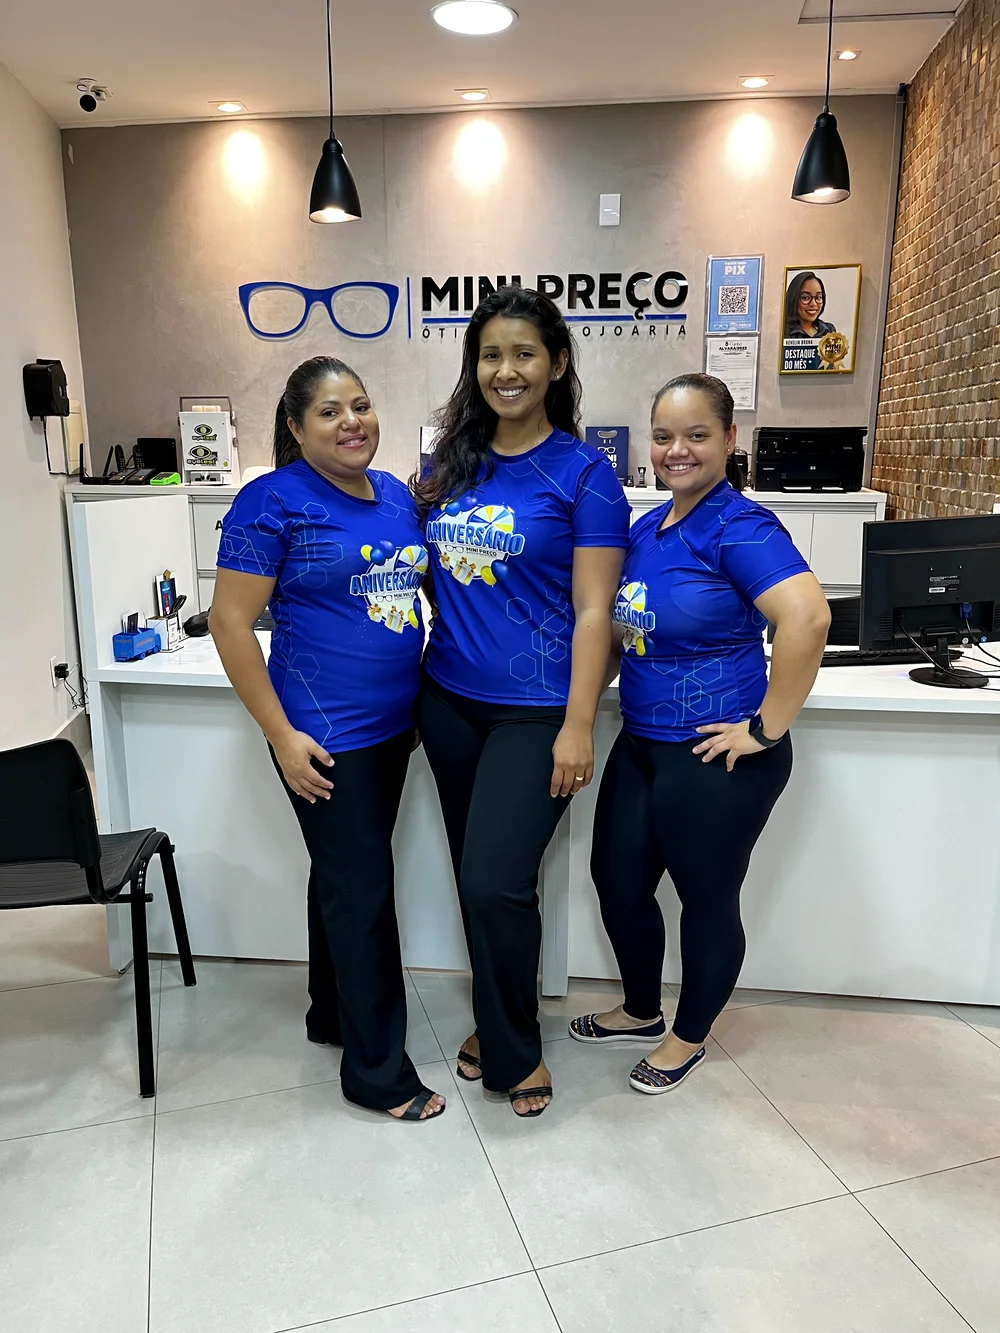
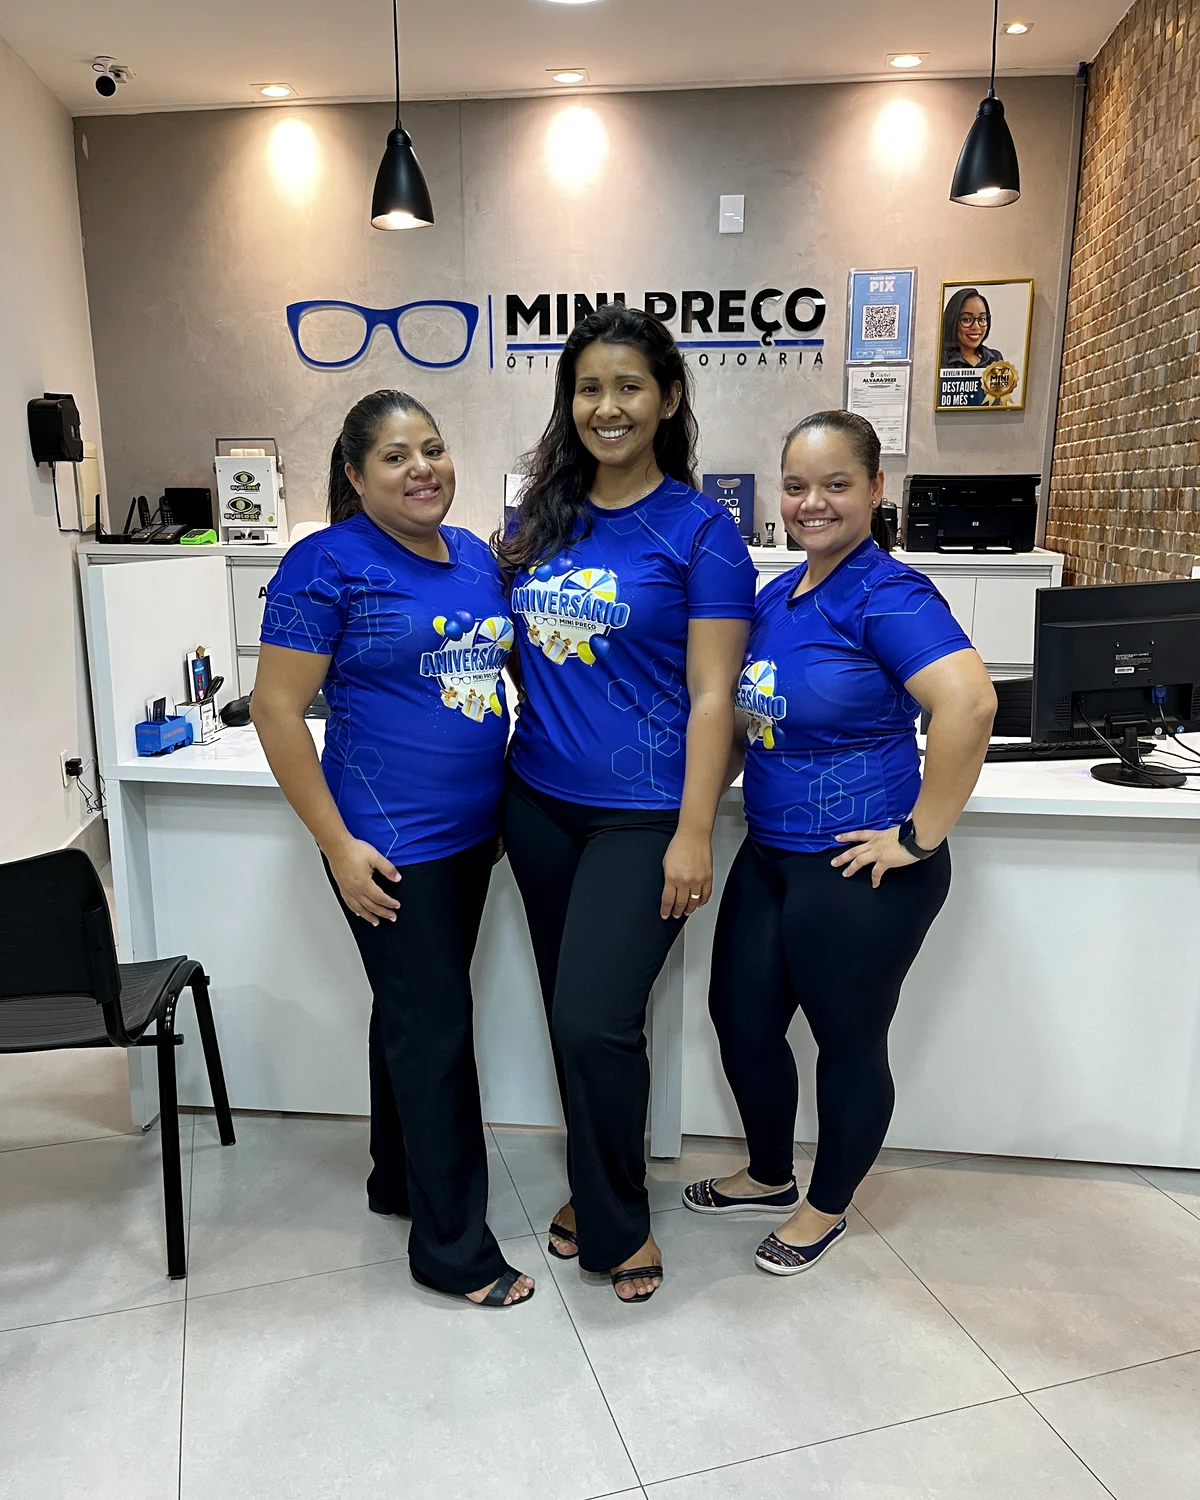
mini preco: enquadramentos corrigidos, sem rostos cortados

diff --git a/index.html b/index.html
@@ -80,17 +80,17 @@ footer{margin-top:120px;border-top:1px solid var(--ln);padding:60px 0 130px;text
 <div class="stack rv d1"><div class="arch"><img id="par" src="img/hero.webp" alt="Fachada da Ótica Mini Preço"></div><div class="mini"><img src="img/equipe.webp" alt="Equipe da Ótica Mini Preço"></div><div class="tag"><b>Pague em até 36x</b>Condições facilitadas para você sair de óculos novo.</div></div>
 </div></header>
 <div class="mq" aria-hidden="true"><div><span>Óculos de grau</span><span>Óculos de sol</span><span>Exame de vista</span><span>Garantia</span><span>Relojoaria</span><span>Receituário</span><span>Pague em até 36x</span><span>Manutenção programada</span><span>Óculos de grau</span><span>Óculos de sol</span><span>Exame de vista</span><span>Garantia</span><span>Relojoaria</span><span>Receituário</span><span>Pague em até 36x</span><span>Manutenção programada</span></div></div>
-<section id="servicos"><div class="wrap"><div class="sh rv"><div class="kick">O que você encontra</div><h2>Tudo para <em>enxergar</em> bem</h2><p>Qualidade, preço justo e um atendimento que os clientes elogiam.</p></div><div class="svc"><article class="sv rv d0"><div class="si"><img src="img/fachada-wide.webp" alt="Fachada da Mini Preço" loading="lazy"></div><div class="sb"><div class="n">01</div><h3>Óculos de grau e de sol</h3><p>Armações e lentes para a sua receita, com ótimo custo-benefício e pagamento em até 36x.</p><a data-tel href="#" target="_blank" rel="noopener">Pedir orçamento →</a></div></article><article class="sv rv d1"><div class="si"><img src="img/parede1.webp" alt="Recepção da Mini Preço com o logotipo na parede" loading="lazy"></div><div class="sb"><div class="n">02</div><h3>Exame de vista</h3><p>Agende com médico oftalmologista. Cuidamos da assessoria e indicamos uma clínica perto de você.</p><a data-tel href="#" target="_blank" rel="noopener">Agendar exame →</a></div></article><article class="sv rv d2"><div class="si"><img src="img/parede2.webp" alt="Interior da Mini Preço" loading="lazy"></div><div class="sb"><div class="n">03</div><h3>Garantia e manutenção</h3><p>Garantia nos óculos e manutenções programadas, que os clientes adoram.</p><a data-tel href="#" target="_blank" rel="noopener">Saber mais →</a></div></article></div></div></section>
+<section id="servicos"><div class="wrap"><div class="sh rv"><div class="kick">O que você encontra</div><h2>Tudo para <em>enxergar</em> bem</h2><p>Qualidade, preço justo e um atendimento que os clientes elogiam.</p></div><div class="svc"><article class="sv rv d0"><div class="si"><img src="img/placa.webp" alt="Placa da Mini Preço Ótica e Relojoaria" loading="lazy"></div><div class="sb"><div class="n">01</div><h3>Óculos de grau e de sol</h3><p>Armações e lentes para a sua receita, com ótimo custo-benefício e pagamento em até 36x.</p><a data-tel href="#" target="_blank" rel="noopener">Pedir orçamento →</a></div></article><article class="sv rv d1"><div class="si"><img src="img/equipe-wide.webp" alt="Equipe da Mini Preço na recepção" loading="lazy"></div><div class="sb"><div class="n">02</div><h3>Exame de vista</h3><p>Agende com médico oftalmologista. Cuidamos da assessoria e indicamos uma clínica perto de você.</p><a data-tel href="#" target="_blank" rel="noopener">Agendar exame →</a></div></article><article class="sv rv d2"><div class="si"><img src="img/entrada.webp" alt="Entrada da Mini Preço com painel de marcas" loading="lazy"></div><div class="sb"><div class="n">03</div><h3>Garantia e manutenção</h3><p>Garantia nos óculos e manutenções programadas, que os clientes adoram.</p><a data-tel href="#" target="_blank" rel="noopener">Saber mais →</a></div></article></div></div></section>
 <div class="band" id="loja"><div class="bg" id="bandbg"></div><div class="wrap"><div class="in rv"><div class="kick">A loja</div><div class="sh" style="margin-bottom:0"><h2>Preço justo, atendimento <em>de verdade</em></h2></div><div class="pil"><div><svg viewBox="0 0 24 24"><circle cx="12" cy="12" r="9"/><path d="M8 12l3 3 5-6"/></svg><p><b>Equipe educada e paciente</b><span>Atendimento simpático e eficiente do início ao fim, segundo os clientes.</span></p></div><div><svg viewBox="0 0 24 24"><rect x="3" y="6" width="18" height="12" rx="2"/><path d="M3 10h18"/></svg><p><b>Preço justo e parcelado</b><span>Pague em até 36x e leve seus óculos para casa sem apertar o orçamento.</span></p></div><div><svg viewBox="0 0 24 24"><path d="M12 21s7-6 7-11a7 7 0 0 0-14 0c0 5 7 11 7 11z"/><circle cx="12" cy="10" r="2.5"/></svg><p><b>Na Av. Carmindo de Campos</b><span>Jardim Petrópolis, próximo à FEB Saúde. Fácil de chegar.</span></p></div></div></div></div></div>
 
-<section id="galeria"><div class="wrap"><div class="sh rv"><div class="kick">Galeria</div><h2>Conheça a <em>Mini Preço</em></h2></div><div class="bento" id="bento"><button type="button" class="bt big rv" data-i="0"><img src="img/fachada.webp" alt="Fachada da Mini Preço" loading="lazy"><span>Venha nos visitar</span></button><button type="button" class="bt tall rv" data-i="1"><img src="img/equipe.webp" alt="Equipe da Mini Preço" loading="lazy"><span>Nossa equipe</span></button><button type="button" class="bt wide rv" data-i="2"><img src="img/parede1.webp" alt="Recepção com logotipo" loading="lazy"><span>Recepção</span></button><button type="button" class="bt wide rv" data-i="3"><img src="img/parede2.webp" alt="Interior da loja" loading="lazy"><span>Atendimento</span></button><button type="button" class="bt wide rv" data-i="4"><img src="img/fachada-wide.webp" alt="Entrada da ótica" loading="lazy"><span>Av. Carmindo de Campos</span></button></div></div></section>
+<section id="galeria"><div class="wrap"><div class="sh rv"><div class="kick">Galeria</div><h2>Conheça a <em>Mini Preço</em></h2></div><div class="bento" id="bento"><button type="button" class="bt big rv" data-i="0"><img src="img/fachada.webp" alt="Fachada da Mini Preço" loading="lazy"><span>Venha nos visitar</span></button><button type="button" class="bt tall rv" data-i="1"><img src="img/equipe.webp" alt="Equipe da Mini Preço" loading="lazy"><span>Nossa equipe</span></button><button type="button" class="bt tall rv" data-i="2"><img src="img/entrada.webp" alt="Entrada com painel de marcas" loading="lazy"><span>Marcas na entrada</span></button><button type="button" class="bt wide rv" data-i="3"><img src="img/placa.webp" alt="Placa da Mini Preço" loading="lazy"><span>Ótica e Relojoaria</span></button></div></div></section>
 <div class="wrap"><div class="nums rv"><div><b data-n="4.9" data-d="1">4.9</b><span>nota no Google</span></div><div><b data-n="115">115</b><span>avaliações</span></div><div><b data-n="1231">1231</b><span>seguidores no Instagram</span></div><div><b >36x</b><span>para pagar seus óculos</span></div></div></div>
 <section id="avaliacoes"><div class="wrap"><div class="sh c rv"><div class="kick" style="justify-content:center">Quem comprou, recomenda</div><h2>Clientes <em>satisfeitos</em></h2></div><div class="dp"><q class="rv d0">Ótimo atendimento e bom preço, agilidade no atendimento e material de primeira.<small><i>★★★★★</i>Cliente · Google</small></q><q class="rv d1">Fui muito bem atendido hoje. O Rene demonstrou paciência e eficiência do início ao fim.<small><i>★★★★★</i>Lucas Gonçalves · Google</small></q><q class="rv d2">Ótimo atendimento, produtos de ótima qualidade e preço justo. Já fui atendido pela segunda vez, nota 10.<small><i>★★★★★</i>Alberto Oliveira · Google</small></q></div>
 <div class="goo rv"><b style="font-family:var(--serif);font-size:56px;font-weight:600;line-height:1">4,9</b><div style="color:#ffc933;letter-spacing:4px">★★★★★</div><p>115 avaliações no Google. Conte como foi a sua experiência.</p><a class="btn" href="https://maps.google.com/?cid=2848855422820266037" target="_blank" rel="noopener"><svg class="g" viewBox="0 0 48 48"><path fill="#EA4335" d="M24 9.5c3.54 0 6.71 1.22 9.21 3.6l6.85-6.85C35.9 2.38 30.47 0 24 0 14.62 0 6.51 5.38 2.56 13.22l7.98 6.19C12.43 13.72 17.74 9.5 24 9.5z"/><path fill="#4285F4" d="M46.98 24.55c0-1.57-.15-3.09-.38-4.55H24v9.02h12.94c-.58 2.96-2.26 5.48-4.78 7.18l7.73 6c4.51-4.18 7.09-10.36 7.09-17.65z"/><path fill="#FBBC05" d="M10.53 28.59c-.48-1.45-.76-2.99-.76-4.59s.27-3.14.76-4.59l-7.98-6.19C.92 16.46 0 20.12 0 24c0 3.88.92 7.54 2.56 10.78l7.97-6.19z"/><path fill="#34A853" d="M24 48c6.48 0 11.93-2.13 15.89-5.81l-7.73-6c-2.15 1.45-4.92 2.3-8.16 2.3-6.26 0-11.57-4.22-13.47-9.91l-7.98 6.19C6.51 42.62 14.62 48 24 48z"/></svg>Avaliar no Google</a></div></div></section>
 <section id="visite"><div class="wrap"><div class="sh rv"><div class="kick">Visite</div><h2>Venha nos <em>conhecer</em></h2></div>
 <div class="vis"><div class="info rv"><h3>Ótica Mini<br>Preço</h3><dl style="display:grid;gap:18px"><div><dt>Endereço</dt><dd>Av. Carmindo de Campos, 768, Loja 19C<br><small>Jardim Petrópolis · Cuiabá/MT · 78070-100<br>Próximo à FEB Saúde</small></dd></div><div><dt>Horário</dt><dd>Segunda a sexta, 8h às 18h<br>Sábado, 8h às 12h</dd></div><div><dt>Telefone</dt><dd>(65) 3358-9300</dd></div></dl><a class="btn p" data-tel href="#" target="_blank" rel="noopener"><svg viewBox="0 0 24 24"><path d="M22 16.9v3a2 2 0 0 1-2.2 2 19.8 19.8 0 0 1-8.6-3.1 19.5 19.5 0 0 1-6-6A19.8 19.8 0 0 1 2.1 4.2 2 2 0 0 1 4.1 2h3a2 2 0 0 1 2 1.7c.1.9.4 1.8.7 2.7a2 2 0 0 1-.5 2.1L8 9.8a16 16 0 0 0 6.2 6.2l1.3-1.3a2 2 0 0 1 2.1-.4c.9.3 1.8.6 2.7.7a2 2 0 0 1 1.7 2z"/></svg>Ligar agora</a></div>
 <div class="map rv d1"><iframe title="Mapa Ótica Mini Preço" loading="lazy" referrerpolicy="no-referrer-when-downgrade" src="https://www.google.com/maps?q=%C3%93tica+Mini+Pre%C3%A7o+Av+Carmindo+de+Campos+768+Cuiab%C3%A1&output=embed"></iframe></div></div>
-<div class="ig"><a class="it rv d0" href="https://www.instagram.com/oticasminipreco.oficial/" target="_blank" rel="noopener"><img src="img/fachada.webp" alt="Instagram" loading="lazy"></a><a class="it rv d1" href="https://www.instagram.com/oticasminipreco.oficial/" target="_blank" rel="noopener"><img src="img/equipe.webp" alt="Instagram" loading="lazy"></a><a class="it rv d2" href="https://www.instagram.com/oticasminipreco.oficial/" target="_blank" rel="noopener"><img src="img/fachada-wide.webp" alt="Instagram" loading="lazy"></a><div class="igb rv d2"><b>Acompanhe no Instagram</b><span>@oticasminipreco.oficial · novidades, lançamentos e dicas.</span><a class="btn" href="https://www.instagram.com/oticasminipreco.oficial/" target="_blank" rel="noopener">Seguir</a></div></div></div></section>
+<div class="ig"><a class="it rv d0" href="https://www.instagram.com/oticasminipreco.oficial/" target="_blank" rel="noopener"><img src="img/fachada.webp" alt="Instagram" loading="lazy"></a><a class="it rv d1" href="https://www.instagram.com/oticasminipreco.oficial/" target="_blank" rel="noopener"><img src="img/equipe.webp" alt="Instagram" loading="lazy"></a><a class="it rv d2" href="https://www.instagram.com/oticasminipreco.oficial/" target="_blank" rel="noopener"><img src="img/vitrine.webp" alt="Instagram" loading="lazy"></a><div class="igb rv d2"><b>Acompanhe no Instagram</b><span>@oticasminipreco.oficial · novidades, lançamentos e dicas.</span><a class="btn" href="https://www.instagram.com/oticasminipreco.oficial/" target="_blank" rel="noopener">Seguir</a></div></div></div></section>
 <footer><div class="wrap"><div class="logo"><img src="img/logo.png" alt="Mini Preço Ótica e Relojoaria"></div><p>© 2026 Ótica Mini Preço · Site criado pela <span class="zb">Zebubit</span></p><p style="font-size:12.5px;opacity:.7">Versão de demonstração. Marcas citadas pertencem aos seus respectivos titulares.</p></div></footer>
 <a class="fl" data-tel href="#" target="_blank" rel="noopener" aria-label="Ligar agora"><svg viewBox="0 0 24 24"><path d="M22 16.9v3a2 2 0 0 1-2.2 2 19.8 19.8 0 0 1-8.6-3.1 19.5 19.5 0 0 1-6-6A19.8 19.8 0 0 1 2.1 4.2 2 2 0 0 1 4.1 2h3a2 2 0 0 1 2 1.7c.1.9.4 1.8.7 2.7a2 2 0 0 1-.5 2.1L8 9.8a16 16 0 0 0 6.2 6.2l1.3-1.3a2 2 0 0 1 2.1-.4c.9.3 1.8.6 2.7.7a2 2 0 0 1 1.7 2z"/></svg><span>Ligar</span></a>
 <div class="lb" id="lb" role="dialog" aria-modal="true"><button class="x" id="lbx" aria-label="Fechar">×</button><button class="pv" id="lbp" aria-label="Anterior">‹</button><img id="lbi" alt=""><button class="nx" id="lbn" aria-label="Próxima">›</button></div>
